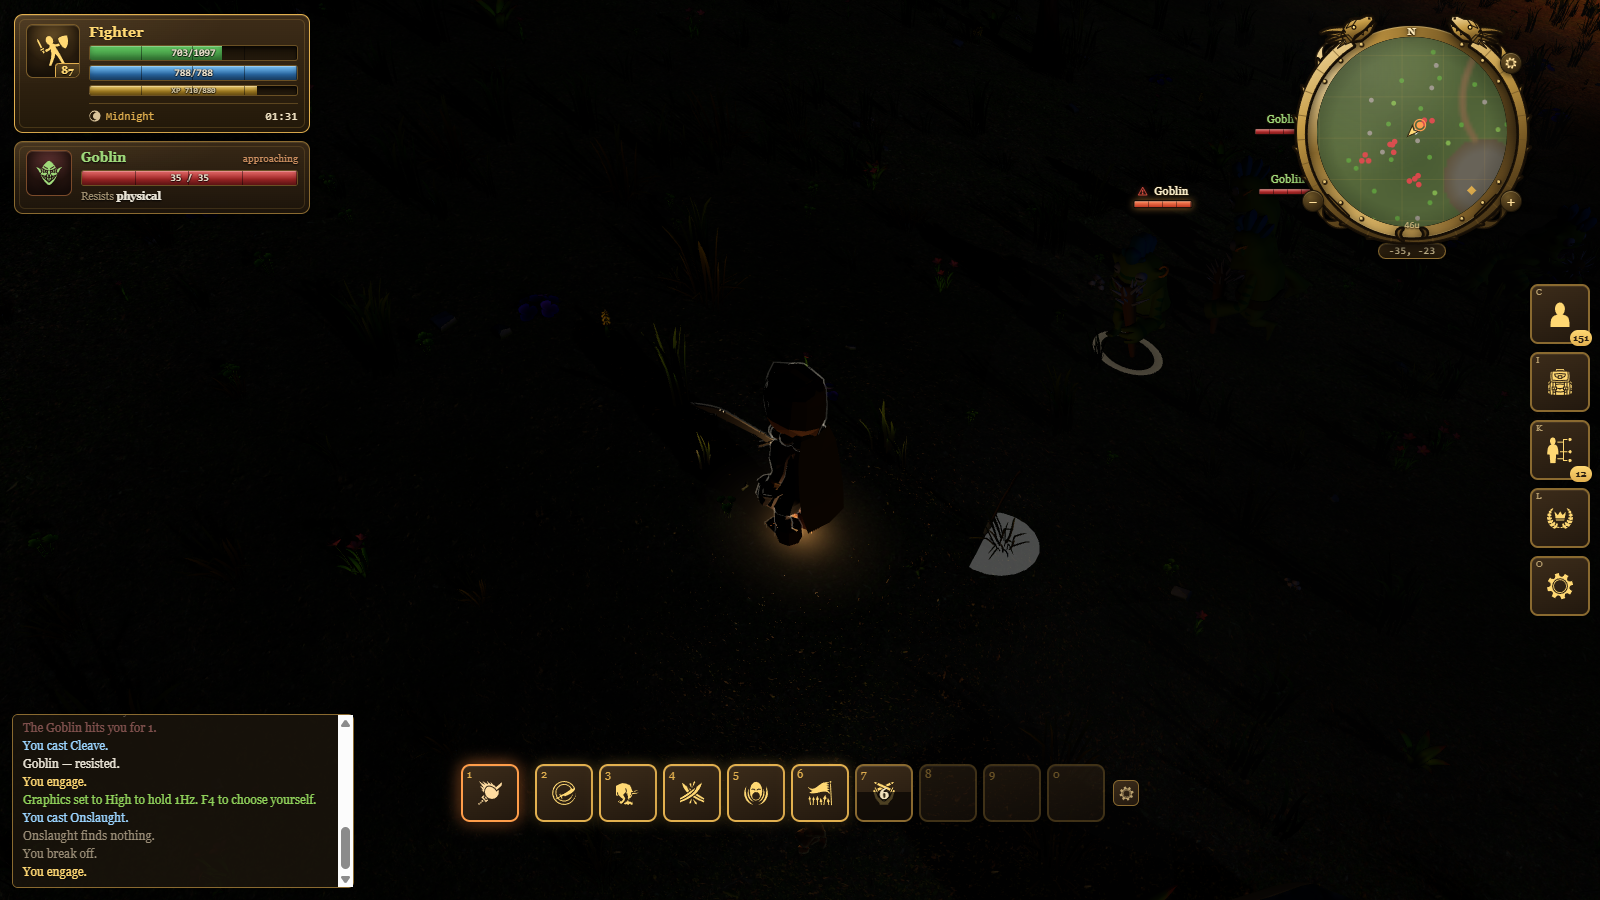
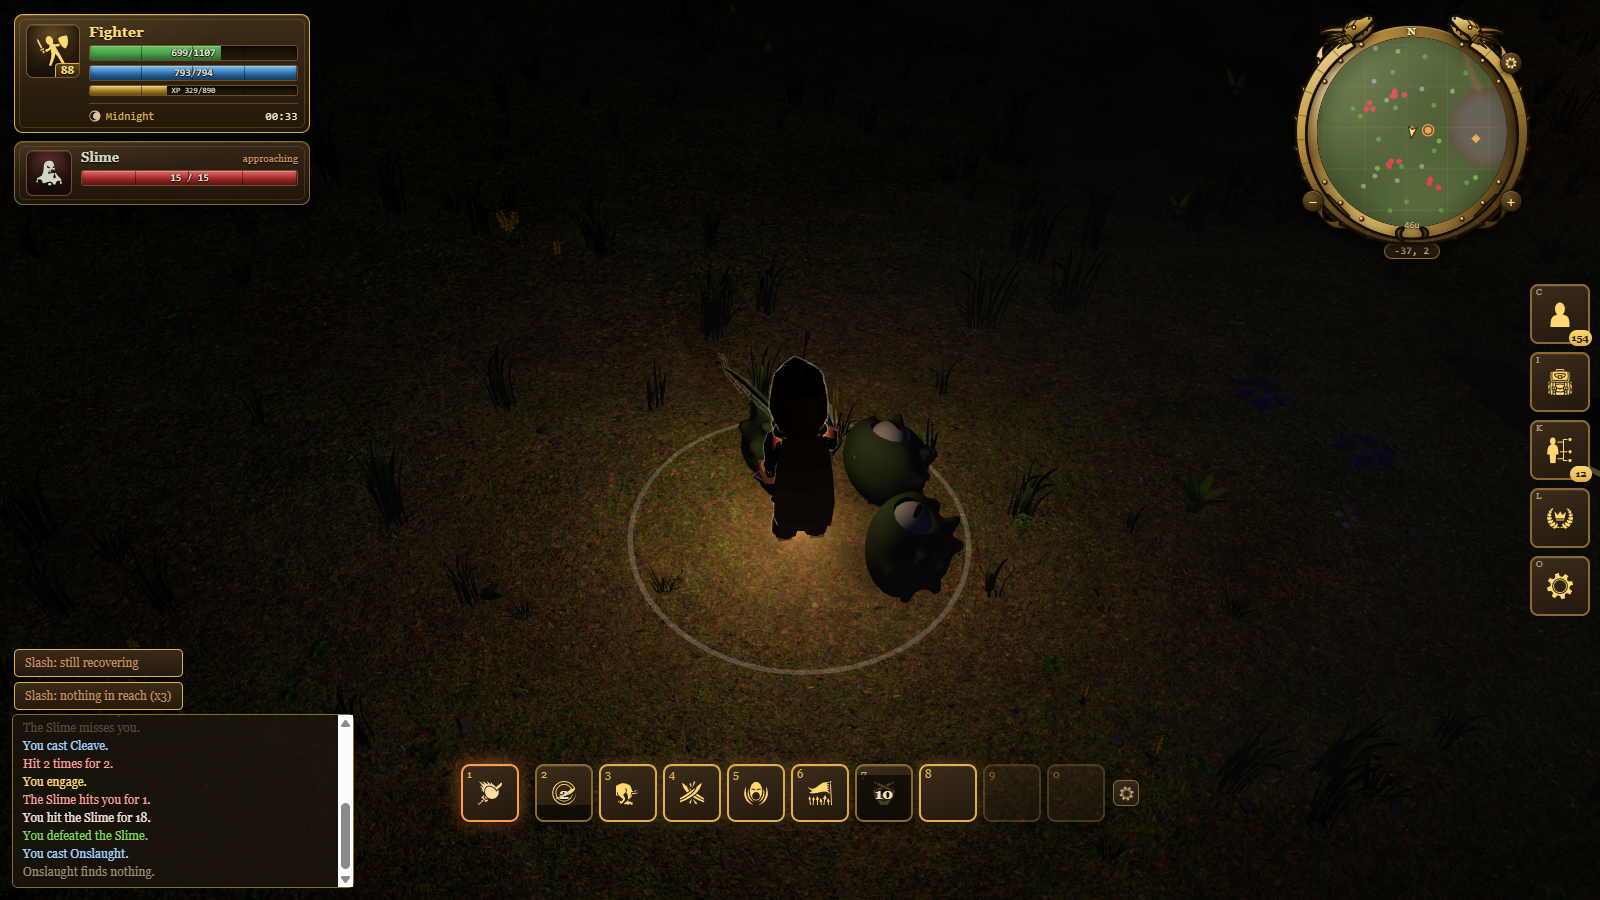
M70.200: accuracy stopped paying at level 35
`playerAccuracy` ended in `Math.min(95, ...)`. Agility 23 reaches 95 alone —
about level 35 on a spread build — so every point after that bought nothing,
and neither did the two accuracy affixes, three set bonuses, or the accuracy
halves of Precision, Relentless and Eagle Eye. A level 87 Fighter missed a
Goblin one swing in five, permanently.

The cap was in the wrong place: `resolveAttack` already clamps hit chance to
5-95, so the miss floor never depended on it. All it did was truncate accuracy
before evasion was subtracted. Removed.

It also repairs the ghost, whose 38 evasion is documented as an accuracy check
against low-Agility builds — a check that distinguished nobody while every
build sat at 95. A Strength build still meets it at 32%.

Verified in play: repeated misses became "You hit the Slime for 18. You
defeated the Slime." Four checks in balance.mjs, each verified by restoring
the cap and watching it fail.

Also: the combat log's coalesced incoming-hit line said "Hit 2 times for 2",
which reads as the player attacking. Now "You are hit 2 times for 2."

Suite 41/41.

diff --git a/shared/protocol-types.ts b/shared/protocol-types.ts
@@ -477,8 +477,40 @@ export function manaRegenAmount(intelligence = 0): number {
   return 2 + Math.floor(intelligence / 3);
 }
 
+/**
+ * NOT CAPPED, AND THE CAP THAT USED TO BE HERE WAS DOING REAL DAMAGE.
+ *
+ * This read `Math.min(95, ...)`, which sounds prudent and was in the wrong
+ * place: `resolveAttack` ALREADY clamps the final hit chance to 5-95, so the
+ * miss floor was never in danger. All the cap did was stop accuracy being
+ * counted before evasion was subtracted from it.
+ *
+ * Agility 23 reaches 95 on its own. Stat points are 3 a level and a spread
+ * build puts a quarter into Agility, so the cap starts biting around level 35
+ * and a level 87 character sits at Agility 62 — accuracy 174, of which 79 was
+ * thrown away. Every point after that bought nothing, and neither did any of
+ * the accuracy the game sells alongside it: two affixes (`True`, `of the
+ * Hawk`), three set bonuses, and the accuracy halves of `Precision`,
+ * `Relentless` and `Eagle Eye`. All silently inert on any character past the
+ * mid game.
+ *
+ * FOUND FROM A SCREENSHOT of a level 87 Fighter missing a Goblin repeatedly —
+ * 20% of swings, permanently, against a band 2 creature, because 95 accuracy
+ * less 15 evasion is 80 and no amount of levelling could move it.
+ *
+ * AND IT BROKE THE ONE MONSTER BUILT AROUND IT. The ghost carries 38 evasion
+ * and its own note says that is there to "answer accuracy rather than damage",
+ * so a low-Agility build should struggle where an Agility build does not. With
+ * every build pinned at 95 it asked nothing of anybody: the check only exists
+ * once accuracy can actually vary. Uncapped, a Strength build still meets it at
+ * 32% and an Agility build earns its way past — which is what the design says
+ * it is for.
+ *
+ * The clamp in `resolveAttack` is the one that matters and it stays: nothing
+ * here can ever produce a guaranteed hit.
+ */
 export function playerAccuracy(agility: number, accuracyBonus = 0): number {
-  return Math.min(95, 50 + agility * 2 + accuracyBonus);
+  return 50 + agility * 2 + accuracyBonus;
 }
 
 export function playerCritChance(agility: number): number {

diff --git a/client/src/ui/CombatLog.ts b/client/src/ui/CombatLog.ts
@@ -51,7 +51,13 @@ export class CombatLog {
       this.openHit.total += amount;
       this.openHit.endsAt = now + HIT_GROUP_WINDOW_MS;
       this.openHit.el.style.color = color;
-      this.openHit.el.textContent = `Hit ${this.openHit.count} times for ${this.openHit.total}.`;
+      // "YOU ARE HIT", NOT "HIT". Dropping the attacker's name is right — in a
+      // pack it would misattribute — but the direction went with it, and
+      // "Hit 2 times for 2." does not say who hit whom. It reads most naturally
+      // as the player landing two blows, which is the opposite of what it
+      // means, and it misled the one person reading a screenshot of it closely
+      // enough to go looking for a bug in Cleave. Four characters fix it.
+      this.openHit.el.textContent = `You are hit ${this.openHit.count} times for ${this.openHit.total}.`;
       this.container.scrollTop = this.container.scrollHeight;
       return;
     }

diff --git a/PLAN.md b/PLAN.md
@@ -21312,3 +21312,47 @@ the arithmetic is the part that can be checked forever.
 Both new checks verified by deleting the guard and watching them fail.
 
 Suite 41/41.
+
+**Phase 70 M70.200 — accuracy stopped paying at level 35, and a lot of the game
+was inert because of it.** The same combat screenshot that produced M70.199 also
+showed a level 87 Fighter missing a Goblin over and over. That is not variance:
+
+    playerAccuracy(agility, bonus) = Math.min(95, 50 + agility * 2 + bonus)
+
+Agility 23 reaches 95 unaided. Stat points are 3 a level and a spread build puts
+a quarter into Agility, so the cap starts biting around LEVEL 35, and a level 87
+character sits at Agility 62 — accuracy 174, of which 79 was discarded. Against
+a Goblin's 15 evasion that is 80%, permanently, and no level, no gear and no
+talent could move it.
+
+AND EVERYTHING THE GAME SELLS AS ACCURACY WAS INERT WITH IT: the `True` and
+`of the Hawk` affixes, three set bonuses, and the accuracy halves of `Precision`
+(sword), `Relentless` (mace) and `Eagle Eye` (bow). All of it bought nothing on
+any character past the mid game, and nothing said so.
+
+The cap was in the wrong place. `resolveAttack` ALREADY clamps the final hit
+chance to 5-95, so the miss floor was never at risk from removing it — the only
+thing `Math.min(95, ...)` did was truncate accuracy BEFORE evasion was
+subtracted. Removed:
+
+    goblin (ev 15)     lvl 35 spread 81%   lvl 87 spread 95%   lvl 87 strength 55%
+    ghost  (ev 38)     lvl 35 spread 58%   lvl 87 spread 95%   lvl 87 strength 32%
+
+IT ALSO REPAIRS THE ONE MONSTER BUILT AROUND ACCURACY. The ghost carries 38
+evasion and its own note says that exists to "answer accuracy rather than
+damage" — a low-Agility build should struggle where an Agility build does not.
+With every build pinned at 95 it asked nothing of anyone; the check only exists
+once accuracy can vary. It now does, and a Strength build still meets it at 32%.
+
+Verified in play: the log went from "You miss the Goblin" repeating to "You hit
+the Slime for 18. You defeated the Slime." Four checks added to `balance.mjs`,
+all four verified by restoring the cap and watching them fail.
+
+AND ONE LINE OF WORDING, because reading that screenshot closely is what caught
+it. The combat log coalesces repeated incoming hits into "Hit 2 times for 2."
+Dropping the attacker's NAME is right — in a pack it would misattribute — but
+the direction went with it, and the line reads most naturally as the player
+landing two blows. It sent me looking for a bug in Cleave's damage that was
+never there. It now says "You are hit 2 times for 2."
+
+Suite 41/41.
